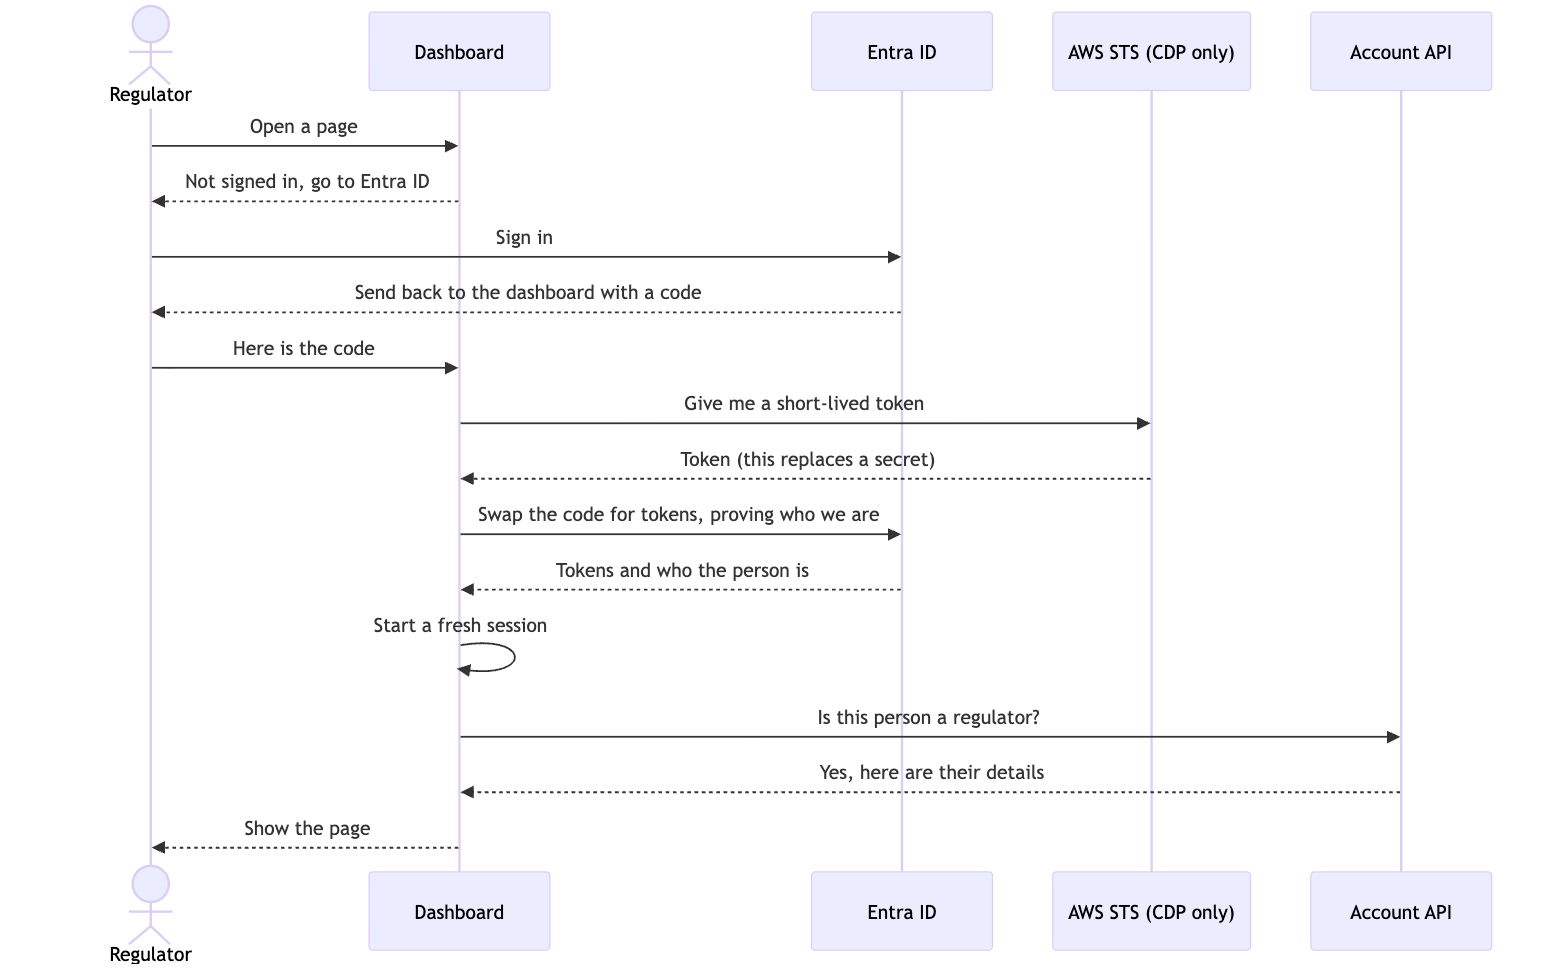
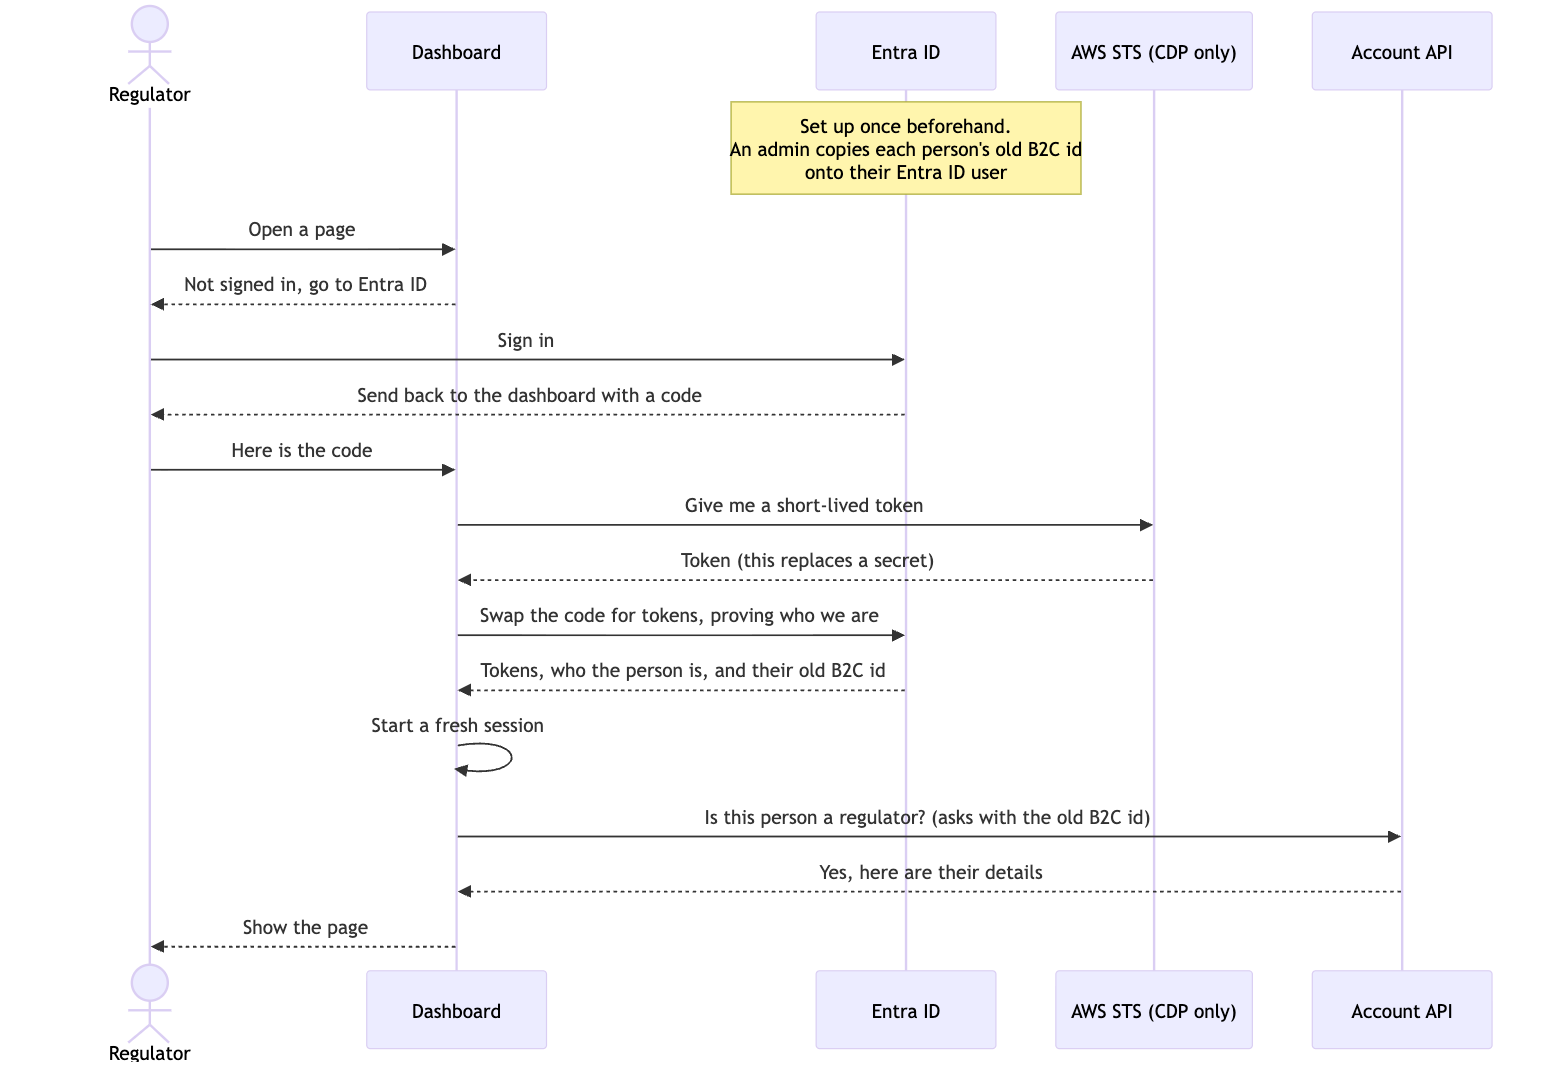
docs(ELSP-486): show the old B2C id step in the README and diagram
The diagram now shows the one-off copy of each person's B2C id onto their
Entra ID user and the id coming back in the token. The README lists the
three steps and says they are not done yet.

diff --git a/README.md b/README.md
@@ -105,11 +105,11 @@ Regulators sign in with Azure AD B2C today. This branch adds **Entra ID** as a s
 - You choose the sign-in with one setting, `AUTH_PROVIDER` (`b2c` is the default, `entra` turns the new one on).
 - On CDP the app proves who it is to Entra ID **without a password**. It asks AWS for a short-lived token and shows that instead of a client secret. This is called a federated credential, and it is how `waste-disposal-fee-frontend` does it too.
 - On your own machine there is no AWS, so you use a client secret instead.
-- Entra ID only has to say who the person is. Whether they are allowed in is still decided by the Account API, as before.
+- Entra ID says who the person is. Whether they are allowed in is still decided by the Account API, as before. The Account API knows people by their **old B2C id**, so that id is copied onto each Entra ID user once, and comes back in the sign-in token (see the yellow note in the diagram).
 
 ### How a sign-in works
 
-![How an Entra ID sign-in works: the regulator opens a page and is sent to Entra ID, comes back with a code, the dashboard gets a short-lived token from AWS STS and swaps the code for tokens, starts a fresh session, asks the Account API whether the person is a regulator, then shows the page](docs/images/entra-sign-in.png)
+![How an Entra ID sign-in works. Set up once beforehand: an admin copies each person's old B2C id onto their Entra ID user. Then the regulator opens a page and is sent to Entra ID, comes back with a code, the dashboard gets a short-lived token from AWS STS and swaps the code for tokens that include the old B2C id, starts a fresh session, asks the Account API whether the person is a regulator using that id, then shows the page](docs/images/entra-sign-in.png)
 
 _The diagram is drawn from [`docs/images/entra-sign-in.mmd`](docs/images/entra-sign-in.mmd) (Mermaid). To change it, edit that file and re-render the PNG with `npx @mermaid-js/mermaid-cli -i docs/images/entra-sign-in.mmd -o docs/images/entra-sign-in.png -s 2 -b white`._
 
@@ -145,9 +145,15 @@ ENTRA_ID_EXTERNAL_BASE_URL=http://localhost:7154 npm run dev
 
 `MOCK_AUTH` is ignored when Entra ID is on. After signing in, `/whoami` shows what Entra ID told us about you (never the tokens).
 
-### The one thing to know about accounts
+### The old B2C id (the yellow note in the diagram)
 
-The Account API, and many tables behind it, identify people by their **B2C object id**. An Entra ID object id is different. The plan is to copy each person's old B2C id onto their Entra ID user as an attribute that comes back as a claim. Set `ENTRA_ID_ACCOUNT_ID_CLAIM` to that claim and the dashboard uses it. Anyone without it falls back to their Entra ID id and is refused until they are fixed. Only admins may ever be able to write that attribute, because it decides whose account loads.
+The Account API, and many tables behind it, identify people by their **B2C object id**. An Entra ID object id is different. So there is a one-off job before anyone can sign in:
+
+1. An admin copies each person's old B2C id onto their Entra ID user, as a custom attribute. Matching is by email, and a person checks the list before anything is written. About 120 internal users.
+2. The app registration is set up to send that attribute back as a claim in the sign-in token.
+3. Set `ENTRA_ID_ACCOUNT_ID_CLAIM` to that claim's name. The dashboard then asks the Account API with that id.
+
+Anyone without it falls back to their Entra ID id, and is refused until they are fixed. Only admins must ever be able to write that attribute, because it decides whose account loads. Draft scripts for steps 1 and 2 are written but have not been run against a real tenant.
 
 ### Tests
 
@@ -156,7 +162,7 @@ The journey tests run the whole sign-in against a fake Entra ID and a fake AWS S
 ### Not done yet
 
 - It has not been run against a real Entra ID tenant or on CDP. That also means nobody has seen Entra ID accept the AWS token yet.
-- Real regulators will not find their account until the B2C id is carried across.
+- The old B2C id is not on the Entra ID users yet, and the claim is not set up on an app registration. Until then real regulators will not find their account.
 - Whether the CDP proxy covers the AWS and Entra ID calls needs checking on a deploy.
 - Role checks are optional and off by default.
 - The app registrations still have to be requested through ServiceNow.
